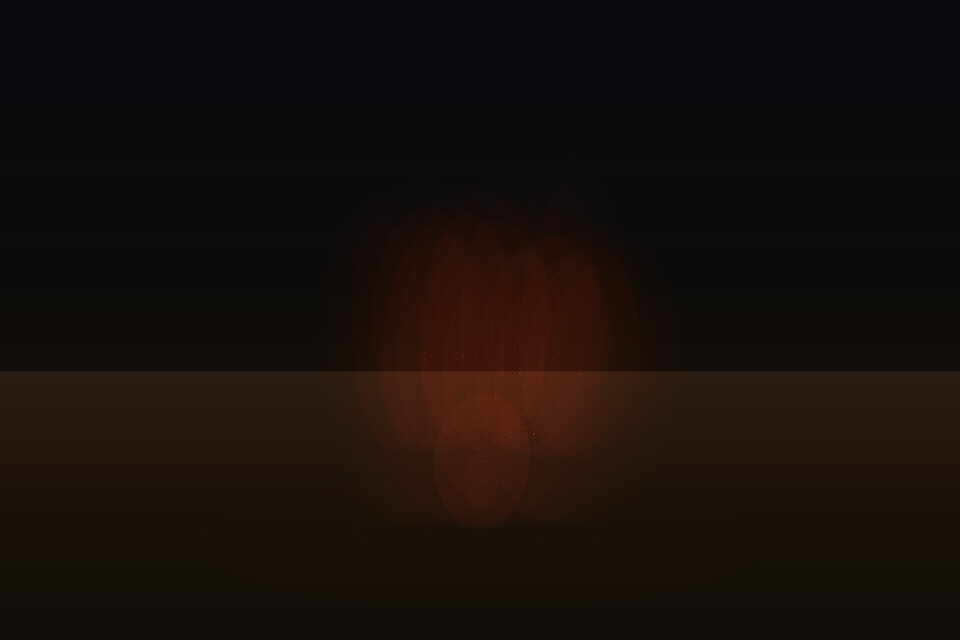
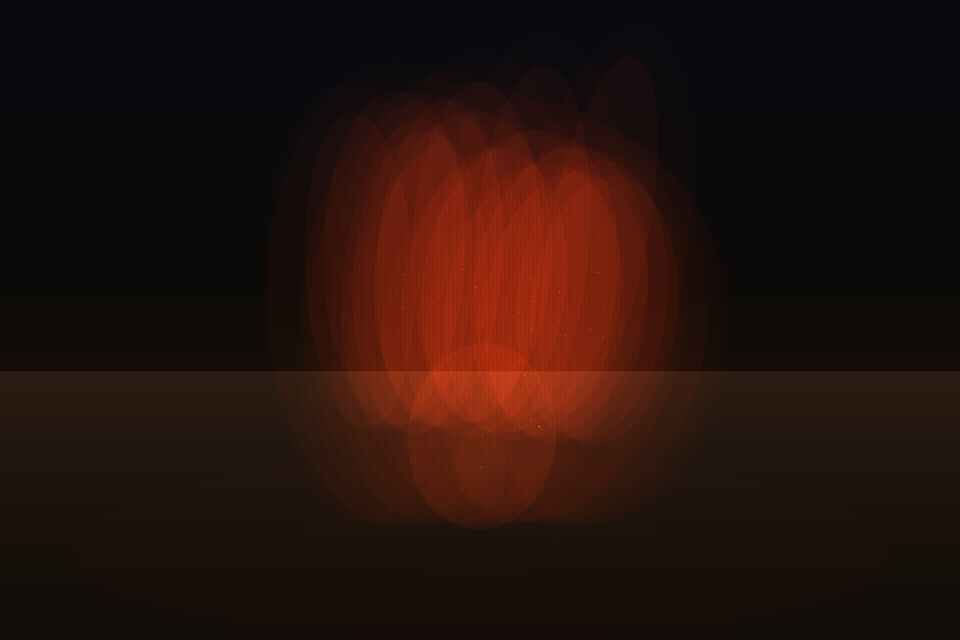
Fire: brighter soft mass; Round7 still 0/3 vs photo bars
Keep soft no-line fire, raise luminosity for presence. Progress +
timeline current stills refreshed after recapture.

Changed region(s): [[0.3125, 0.125, 0.7188, 0.8125]]

diff --git a/src/effects/fire.ts b/src/effects/fire.ts
@@ -116,98 +116,98 @@ export const drawFire: DrawFn<FireParams> = (ctx, params, t, scene) => {
   const bx = params.x;
   const by = params.y;
 
-  // Soft warm ground spill
+  // Soft warm ground spill — stronger so fire reads on dark dirt
   softBlob(
     ctx,
     bx + lean * 0.05,
-    by + 8 * S,
-    95 * S * Sp,
-    28 * S,
+    by + 10 * S,
+    120 * S * Sp,
+    36 * S,
     0,
     hot,
-    0.16 * bright * ei,
+    0.32 * bright * ei,
     mid,
-    0.08 * bright,
+    0.16 * bright,
     deep,
-    0.02 * bright,
+    0.04 * bright,
   );
 
   // Soft charcoal bed glow (no stick geometry)
-  softBlob(ctx, bx, by + 2 * S, 42 * S * Sp, 14 * S, 0, hot, 0.35 * bright * ei, deep, 0.2 * bright, '#1a0800', 0.05);
-  softBlob(ctx, bx - 18 * S * Sp, by + 4 * S, 22 * S, 10 * S, -0.2, mid, 0.22 * bright, deep, 0.1 * bright, '#000', 0);
-  softBlob(ctx, bx + 20 * S * Sp, by + 5 * S, 24 * S, 11 * S, 0.25, mid, 0.2 * bright, deep, 0.1 * bright, '#000', 0);
+  softBlob(ctx, bx, by + 2 * S, 52 * S * Sp, 16 * S, 0, hot, 0.55 * bright * ei, deep, 0.28 * bright, '#1a0800', 0.06);
+  softBlob(ctx, bx - 20 * S * Sp, by + 4 * S, 26 * S, 12 * S, -0.2, mid, 0.38 * bright, deep, 0.16 * bright, '#000', 0);
+  softBlob(ctx, bx + 22 * S * Sp, by + 5 * S, 28 * S, 13 * S, 0.25, mid, 0.36 * bright, deep, 0.15 * bright, '#000', 0);
 
-  // Soft rising flame mass — stacked soft tongues (blobs only)
-  const tongues = Math.floor(7 + Sp * 5);
+  // Soft rising flame mass — stacked soft tongues (blobs only, brighter)
+  const tongues = Math.floor(9 + Sp * 6);
   for (let i = 0; i < tongues; i++) {
     const u = (i + 0.5) / tongues - 0.5;
     const phase = t * (1.4 + (i % 3) * 0.35) + i * 1.7 + params.seed * 0.01;
-    const wobble = Math.sin(phase) * 10 * Sp * params.turbulence;
+    const wobble = Math.sin(phase) * 12 * Sp * params.turbulence;
     const riseN = 0.55 + 0.45 * (0.5 + 0.5 * Math.sin(phase * 0.7 + i));
-    const h = (55 + riseN * 95 * params.rise) * S;
-    const cx = bx + u * 70 * Sp * S + lean * (0.25 + riseN * 0.55) + wobble;
+    const h = (70 + riseN * 110 * params.rise) * S;
+    const cx = bx + u * 78 * Sp * S + lean * (0.25 + riseN * 0.55) + wobble;
     const cy = by - h * 0.55;
-    const rx = (18 + (1 - Math.abs(u)) * 22) * S * Sp * (0.85 + 0.2 * Math.sin(phase * 1.3));
+    const rx = (22 + (1 - Math.abs(u)) * 26) * S * Sp * (0.85 + 0.2 * Math.sin(phase * 1.3));
     const ry = h * 0.55;
     const rot = lean * 0.004 + u * 0.15 + Math.sin(phase) * 0.08;
 
-    softBlob(ctx, cx, cy, rx, ry, rot, hot, 0.28 * bright * ei, mid, 0.16 * bright, deep, 0.03 * bright);
+    softBlob(ctx, cx, cy, rx, ry, rot, hot, 0.48 * bright * ei, mid, 0.28 * bright, deep, 0.05 * bright);
     softBlob(
       ctx,
       cx + lean * 0.05,
       cy - ry * 0.15,
-      rx * 0.55,
-      ry * 0.7,
+      rx * 0.58,
+      ry * 0.72,
       rot,
       tip,
-      0.18 * bright * ei,
+      0.34 * bright * ei,
       hot,
-      0.1 * bright,
+      0.18 * bright,
       mid,
-      0.02 * bright,
+      0.04 * bright,
     );
   }
 
-  // Soft hot core near base (small, not a white cone)
+  // Soft hot core near base (kept soft — not a white cone / stick bundle)
   softBlob(
     ctx,
     bx + lean * 0.08,
-    by - 28 * S * params.rise,
-    16 * S * Sp,
-    28 * S,
+    by - 34 * S * params.rise,
+    22 * S * Sp,
+    36 * S,
     lean * 0.003,
     tip,
-    0.35 * bright * ei,
+    0.55 * bright * ei,
     hot,
-    0.2 * bright,
+    0.32 * bright,
     mid,
-    0.04 * bright,
+    0.06 * bright,
   );
   softBlob(
     ctx,
     bx + lean * 0.06,
-    by - 18 * S,
-    7 * S,
-    12 * S,
+    by - 22 * S,
+    10 * S,
+    16 * S,
     0,
     core,
-    0.22 * bright * ei,
+    0.32 * bright * ei,
     tip,
-    0.1 * bright,
+    0.16 * bright,
     hot,
-    0.02 * bright,
+    0.03 * bright,
   );
 
   // Fringe wisps as soft ellipses only
-  for (let i = 0; i < 10; i++) {
+  for (let i = 0; i < 14; i++) {
     const n1 = fbm2(i * 0.8, t * 0.9 + params.seed * 0.02, 2, params.seed + 11);
     const n2 = fbm2(i * 1.3 + 2, t * 0.7, 2, params.seed + 17);
     const u = n1;
-    const h = (40 + Math.abs(n2) * 70 * params.rise) * S;
-    const cx = bx + u * 55 * Sp * S + lean * 0.45;
+    const h = (50 + Math.abs(n2) * 85 * params.rise) * S;
+    const cx = bx + u * 62 * Sp * S + lean * 0.45;
     const cy = by - h;
-    const a = 0.08 * bright * (0.5 + Math.abs(n2));
-    softBlob(ctx, cx, cy, (8 + Math.abs(n1) * 12) * S, (16 + Math.abs(n2) * 22) * S, u * 0.2, tip, a, mid, a * 0.5, deep, 0);
+    const a = 0.16 * bright * (0.5 + Math.abs(n2));
+    softBlob(ctx, cx, cy, (10 + Math.abs(n1) * 14) * S, (20 + Math.abs(n2) * 26) * S, u * 0.2, tip, a, mid, a * 0.55, deep, 0);
   }
 
   ctx.restore();
@@ -271,7 +271,7 @@ export const fireEffect: EffectModule<FireParams> = {
       name: 'Fire / Magma',
       baseColor: '#ff3b10',
       emissive: '#ff9a40',
-      emissiveIntensity: 1.1,
+      emissiveIntensity: 1.35,
       blend: 'additive',
       roughness: 0.4,
       metalness: 0.1,

diff --git a/src/captureMain.ts b/src/captureMain.ts
@@ -142,12 +142,12 @@ if (fx === 'fire') {
     instanceId: 'cap-fire',
     x: W * 0.5,
     y: H * 0.82,
-    size: 2.4,
-    spread: 1.25,
-    rise: 0.95,
-    intensity: 1.0,
-    embers: 0.75,
-    turbulence: 0.9,
+    size: 2.6,
+    spread: 1.3,
+    rise: 1.0,
+    intensity: 1.15,
+    embers: 0.85,
+    turbulence: 0.95,
   };
   drawing = (tt) => fireEffect.draw(ctx, p, tt, scene);
 } else if (fx === 'smoke') {
